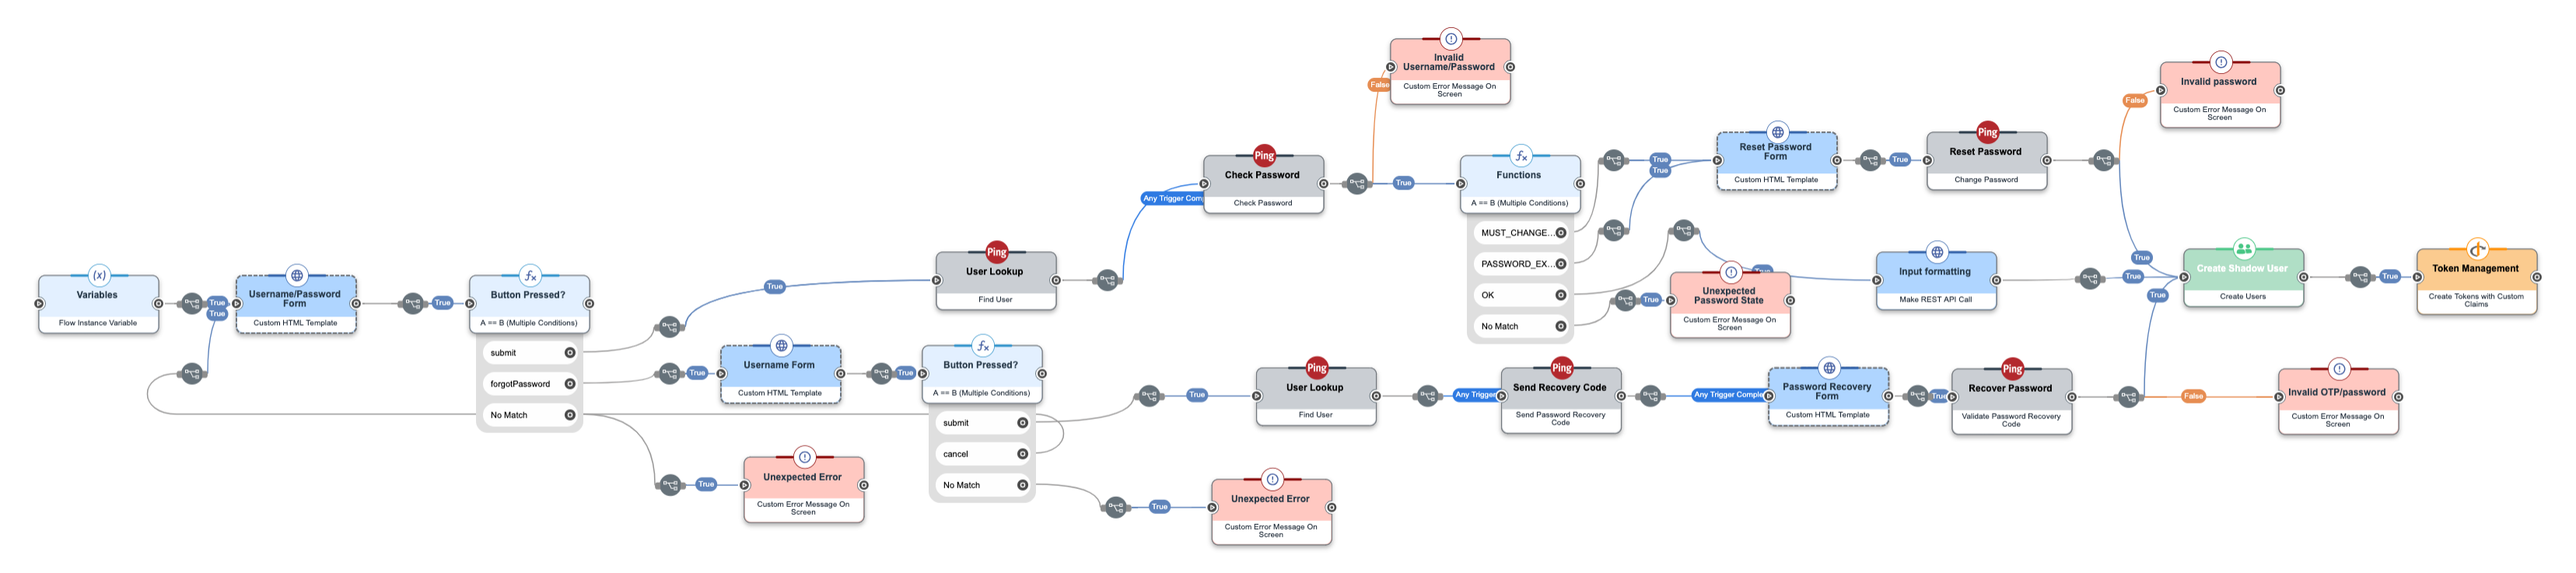
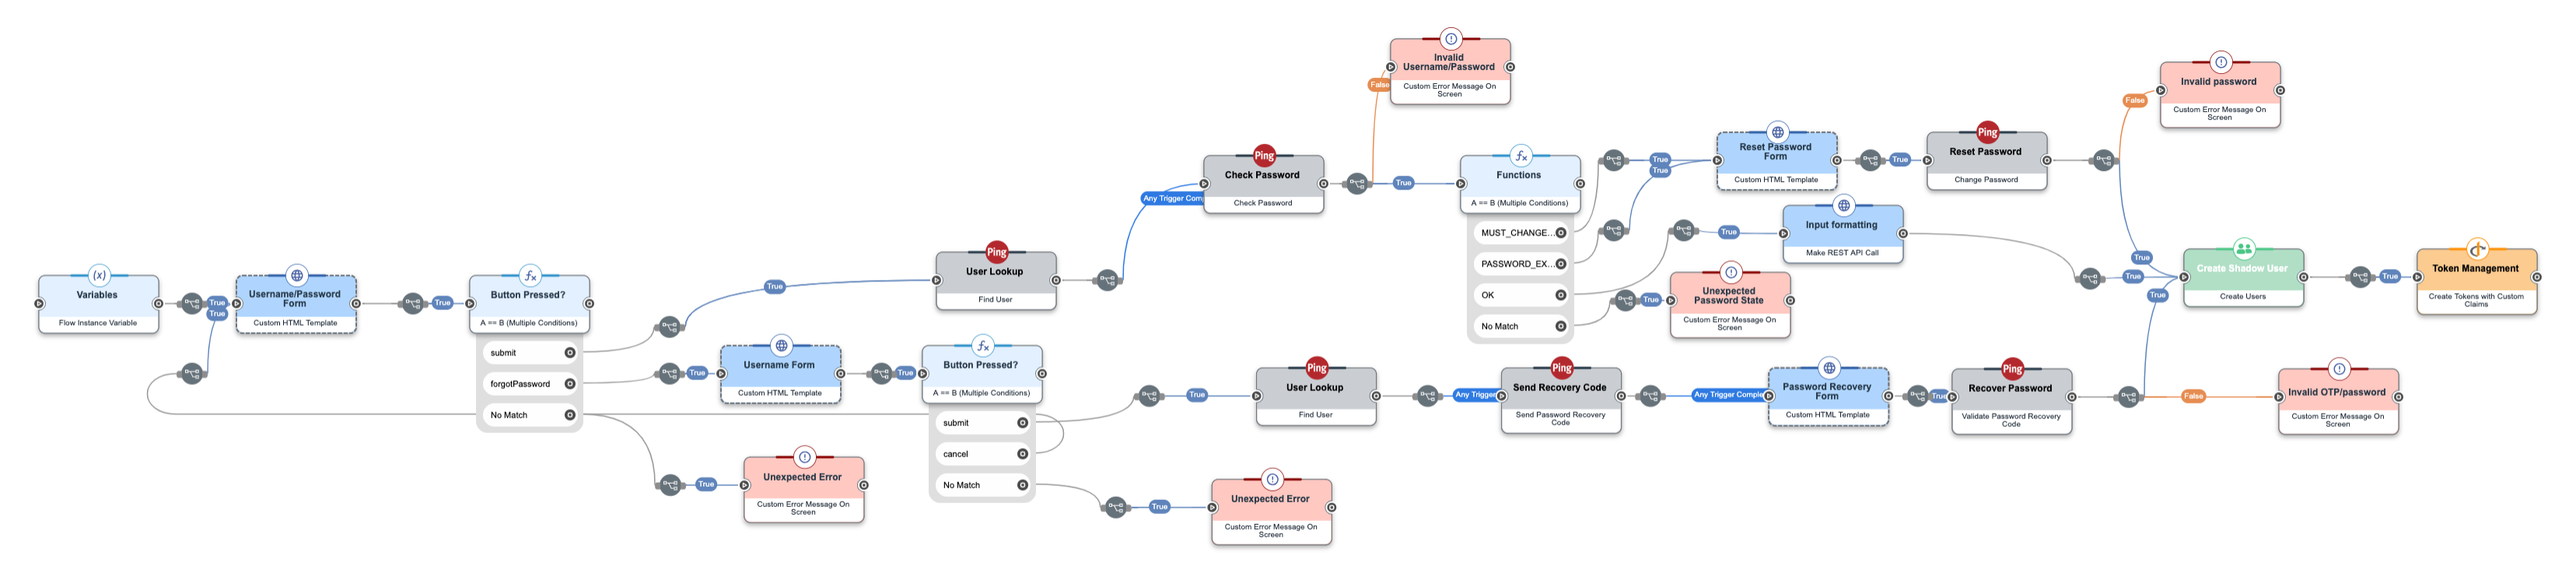
update flow

Changed region(s): [[0.6531, 0.3433, 0.8086, 0.5617]]

diff --git a/davinci/PingOne - Sign On and Password Reset/docs/nodes/k1vc9enhqp.md b/davinci/PingOne - Sign On and Password Reset/docs/nodes/k1vc9enhqp.md
@@ -37,7 +37,7 @@
                 <h1 class="heading" data-id="heading">Enter New Password</h1>
                 <h4 class="heading heading--4" data-id="heading" style="text-align: center;">If you have an active account with a valid email address, you will receive an email with a recovery code which you may enter here, along with a new password. If you do not have an account or email, please contact your administrator to recover your password.			</h4>
                 <div data-skcomponent="skerror" class="feedback feedback--error sk-alert sk-alert-danger has-text-danger has-background-danger-light" data-skvisibility=""></div>
-                <form class="form" id='recoveryCodeForm' data-id="recoveryCodeForm">
+                <form class="form1" id='recoveryCodeForm' data-id="recoveryCodeForm">
                     <div class="field float-label">
                         <input class="text-input float-label__input" data-id="recoveryCode-input" id="recoveryCode" name="recoveryCode" type="text" value="" />
                         <label class="float-label__label" for="recoveryCode">Recovery Code</label>
@@ -113,7 +113,9 @@ flowchart TD
     3of58vu7g8 -->|No Match| K{Action Decision}
     H -->|True| j9ekv98w5p[Reset Password Form]
     I -->|True| j9ekv98w5p
-    J -->|True| 760w48p7zi[Create Shadow User]
+    J -->|True| xlvsie51oh[Input formatting]
+    xlvsie51oh --> J1{Action Decision}
+    J1 -->|True| 760w48p7zi[Create Shadow User]
     K -->|True| nf63ecqmal[Unexpected Password State]
     j9ekv98w5p --> L{Action Decision}
     L -->|True| ldguma4s6x[Reset Password]

diff --git a/davinci/PingOne - Sign On and Password Reset/docs/index.md b/davinci/PingOne - Sign On and Password Reset/docs/index.md
@@ -66,7 +66,9 @@ flowchart TD
     3of58vu7g8 -->|No Match| K{Action Decision}
     H -->|True| j9ekv98w5p[Reset Password Form]
     I -->|True| j9ekv98w5p
-    J -->|True| 760w48p7zi[Create Shadow User]
+    J -->|True| xlvsie51oh[Input formatting]
+    xlvsie51oh --> J1{Action Decision}
+    J1 -->|True| 760w48p7zi[Create Shadow User]
     K -->|True| nf63ecqmal[Unexpected Password State]
     j9ekv98w5p --> L{Action Decision}
     L -->|True| ldguma4s6x[Reset Password]
@@ -194,6 +196,7 @@ Ping Identity online documentation: [HTTP Connector](https://docs.pingidentity.c
 
 | Node ID    | Node Name   | Node Title         | Capability         | Docs Link |
 |------------|-------------|--------------------|--------------------|-----------|
+| <a name="xlvsie51oh"></a>`xlvsie51oh` | `Http`    | `Input Formatting` | Make REST API Call | [Link](./nodes/xlvsie51oh.md)      |
 | <a name="k1vc9enhqp"></a>`k1vc9enhqp` | `Http`    | `Password Recovery Form` | Custom HTML Template | [Link](./nodes/k1vc9enhqp.md)      |
 | <a name="j9ekv98w5p"></a>`j9ekv98w5p` | `Http`    | `Reset Password Form` | Custom HTML Template | [Link](./nodes/j9ekv98w5p.md)      |
 | <a name="howu8n9hsc"></a>`howu8n9hsc` | `Http`    | `Username/Password Form` | Custom HTML Template | [Link](./nodes/howu8n9hsc.md)      |

diff --git a/davinci/PingOne - Sign On and Password Reset/docs/data/howu8n9hsc_payload_output_password.md b/davinci/PingOne - Sign On and Password Reset/docs/data/howu8n9hsc_payload_output_password.md
@@ -5,6 +5,7 @@ Variable written:
 
 Variable read:
 * "Check Password" PingOne Connector (Node ID: [dnu7jt3sjz](./dnu7jt3sjz.md))
+* "Input formatting" HTTP Connector (Node ID: [xlvsie51oh](./xlvsie51oh.md))
 
 ## Data Path
 
@@ -35,7 +36,9 @@ flowchart TD
     3of58vu7g8 -->|No Match| K{Action Decision}
     H -->|True| j9ekv98w5p[Reset Password Form]
     I -->|True| j9ekv98w5p
-    J -->|True| 760w48p7zi[Create Shadow User]
+    J -->|True| xlvsie51oh[Input formatting]:::read
+    xlvsie51oh --> J1{Action Decision}
+    J1 -->|True| 760w48p7zi[Create Shadow User]
     K -->|True| nf63ecqmal[Unexpected Password State]
     j9ekv98w5p --> L{Action Decision}
     L -->|True| ldguma4s6x[Reset Password]
@@ -70,6 +73,10 @@ flowchart TD
     linkStyle 5 stroke:red,stroke-width:4px;
     linkStyle 6 stroke:red,stroke-width:4px;
     linkStyle 7 stroke:red,stroke-width:4px;
+    linkStyle 12 stroke:red,stroke-width:4px;
+    linkStyle 13 stroke:red,stroke-width:4px;
+    linkStyle 17 stroke:red,stroke-width:4px;
+    linkStyle 21 stroke:red,stroke-width:4px;
 
     click lz4v4r9c4m "#lz4v4r9c4m" "Doc"
     click howu8n9hsc "#howu8n9hsc" "Doc"

diff --git a/davinci/PingOne - Sign On and Password Reset/docs/data/icv9ot1nro_payload_output_matcheduser_id.md b/davinci/PingOne - Sign On and Password Reset/docs/data/icv9ot1nro_payload_output_matcheduser_id.md
@@ -36,7 +36,9 @@ flowchart TD
     3of58vu7g8 -->|No Match| K{Action Decision}
     H -->|True| j9ekv98w5p[Reset Password Form]
     I -->|True| j9ekv98w5p
-    J -->|True| 760w48p7zi[Create Shadow User]
+    J -->|True| xlvsie51oh[Input formatting]
+    xlvsie51oh --> J1{Action Decision}
+    J1 -->|True| 760w48p7zi[Create Shadow User]
     K -->|True| nf63ecqmal[Unexpected Password State]
     j9ekv98w5p --> L{Action Decision}
     L -->|True| ldguma4s6x[Reset Password]:::read

diff --git a/davinci/PingOne - Sign On and Password Reset/docs/nodes/icv9ot1nro.md b/davinci/PingOne - Sign On and Password Reset/docs/nodes/icv9ot1nro.md
@@ -51,7 +51,9 @@ flowchart TD
     3of58vu7g8 -->|No Match| K{Action Decision}
     H -->|True| j9ekv98w5p[Reset Password Form]
     I -->|True| j9ekv98w5p
-    J -->|True| 760w48p7zi[Create Shadow User]
+    J -->|True| xlvsie51oh[Input formatting]
+    xlvsie51oh --> J1{Action Decision}
+    J1 -->|True| 760w48p7zi[Create Shadow User]
     K -->|True| nf63ecqmal[Unexpected Password State]
     j9ekv98w5p --> L{Action Decision}
     L -->|True| ldguma4s6x[Reset Password]
